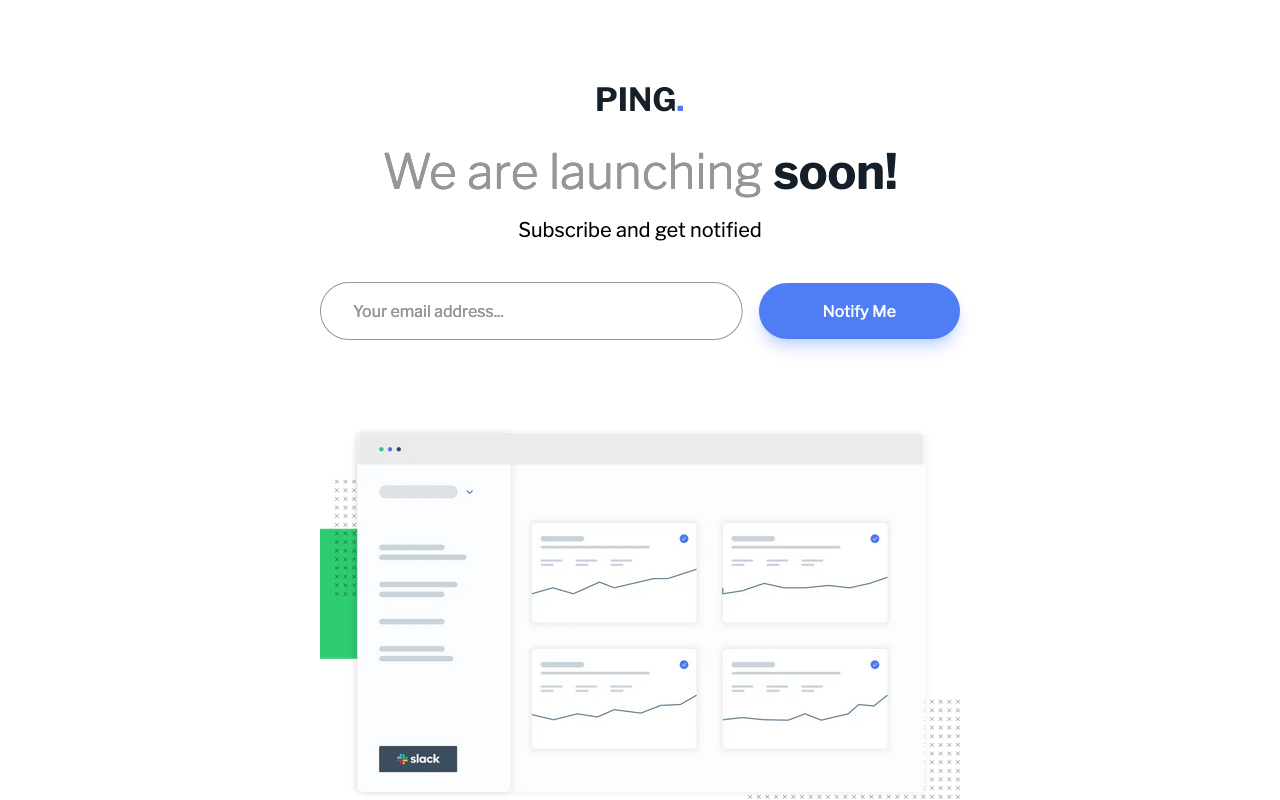
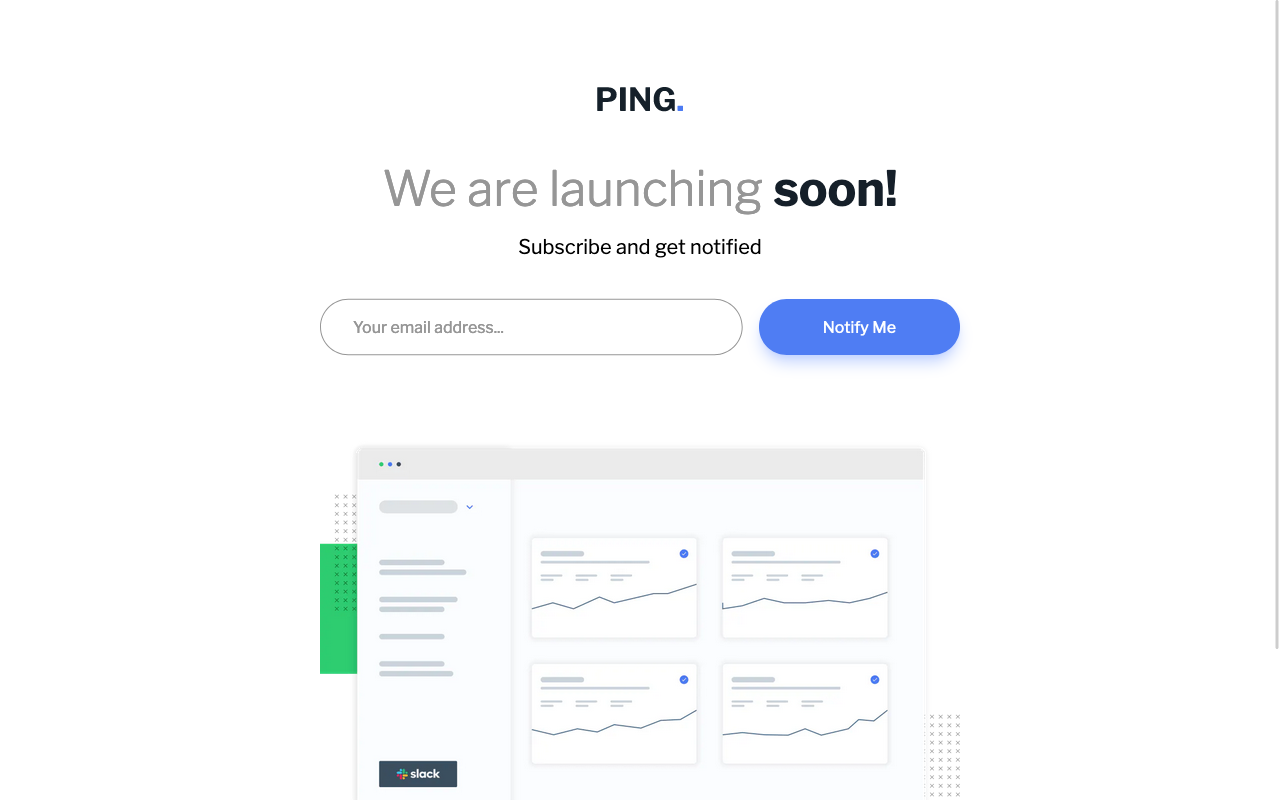
ping-coming-soon-page published

diff --git a/ping-coming-soon-page/src/app/page.tsx b/ping-coming-soon-page/src/app/page.tsx
@@ -13,9 +13,9 @@ export default function Home() {
           <Image alt="" src={logo.src} fill />
         </div>
       </header>
-      <main className="flex flex-col justify-start sm:justify-center flex-1 items-center w-full sm:w-[40rem] px-7 sm:px-0">
+      <main className="flex flex-col justify-start sm:justify-center items-center w-full sm:w-[40rem] px-7 sm:px-0">
         <div className="text-center">
-          <h1 className="text-[1.35rem] sm:text-5xl text-gray font-light pb-3.5 sm:pb-5">
+          <h1 className="text-[1.35rem] sm:text-5xl text-gray font-light pt-[2.8rem] pb-3.5 sm:pb-5">
             We are launching{" "}
             <span className="text-veryDarkBlue font-bold ">soon!</span>
           </h1>

diff --git a/README.md b/README.md
@@ -26,6 +26,7 @@ The challenges are solved using [Next.js](https://nextjs.org/), [Tailwind CSS](h
 | [Social proof section](https://www.frontendmentor.io/solutions/social-proof-section-tailwind-and-nextjs-WKoXN0pcYG)  | 🔵Newbie | [social-proof-section](https://github.com/n0rrman/frontend-mentor-challenges-blue/tree/main/social-proof-section) | [Vercel](https://social-proof-section-livid-five.vercel.app/) | ![Screenshot of the solved challenge](social-proof-section/design/screenshot.png) |
 | [Interactive rating component](https://www.frontendmentor.io/solutions/interactive-rating-component-tailwind-and-nextjs-sH2V9JEZwr)  | 🔵Newbie | [interactive-rating-component](https://github.com/n0rrman/frontend-mentor-challenges-blue/tree/main/interactive-rating-component) | [Vercel](https://interactive-rating-component-eta-silk.vercel.app) | ![Screenshot of the solved challenge](interactive-rating-component/design/screenshot.png) |
 | [Blog preview card](https://www.frontendmentor.io/solutions/blog-preview-card-tailwind-and-nextjs-J3e_er_XDl)  | 🔵Newbie | [blog-preview-card](https://github.com/n0rrman/frontend-mentor-challenges-blue/tree/main/blog-preview-card) | [Vercel](https://blog-preview-card-swart.vercel.app/) | ![Screenshot of the solved challenge](blog-preview-card/design/screenshot.png) |
+| [Ping single column coming soon page](https://www.frontendmentor.io/solutions/ping-single-column-coming-soon-page-tailwind-and-nextjs-Ml7sbSs8Rx)  | 🔵Newbie | [ping-coming-soon-page](https://github.com/n0rrman/frontend-mentor-challenges-blue/tree/main/ping-coming-soon-page) | [Vercel](https://ping-coming-soon-page-chi-fawn.vercel.app/) | ![Screenshot of the solved challenge](ping-coming-soon-page/design/screenshot.png) |
 
 
 <!--

diff --git a/ping-coming-soon-page/README.md b/ping-coming-soon-page/README.md
@@ -10,8 +10,8 @@ This is a solution to the [Ping coming soon page challenge on Frontend Mentor](h
 
 ### Links
 
-- Solution URL: [Solution at Frontend Mentor](...)
-- Live Site URL: [Live version on Vercel](...)
+- Solution URL: [Solution at Frontend Mentor](https://www.frontendmentor.io/solutions/ping-single-column-coming-soon-page-tailwind-and-nextjs-Ml7sbSs8Rx)
+- Live Site URL: [Live version on Vercel](https://ping-coming-soon-page-chi-fawn.vercel.app)
 
 
 ### Built with
